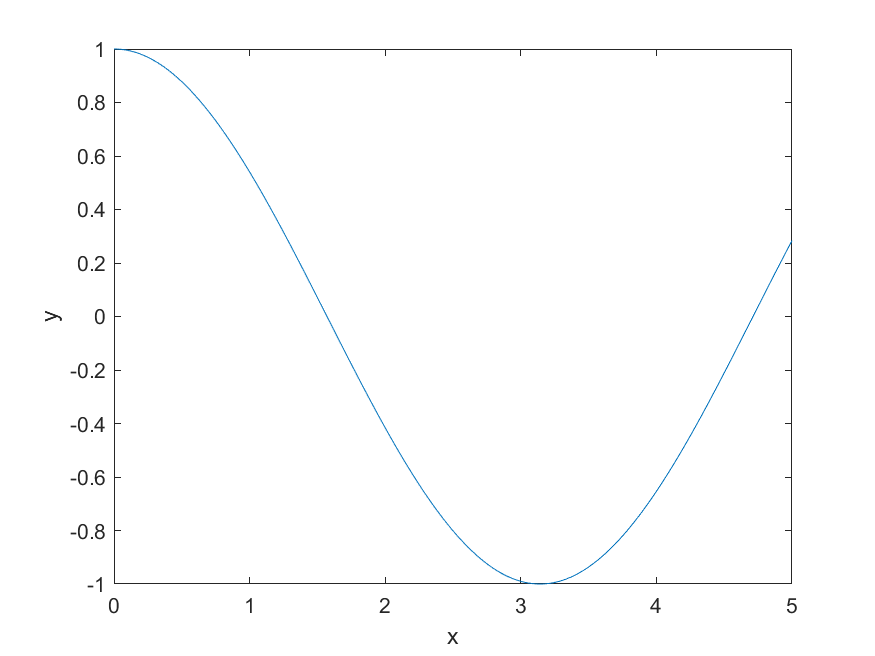
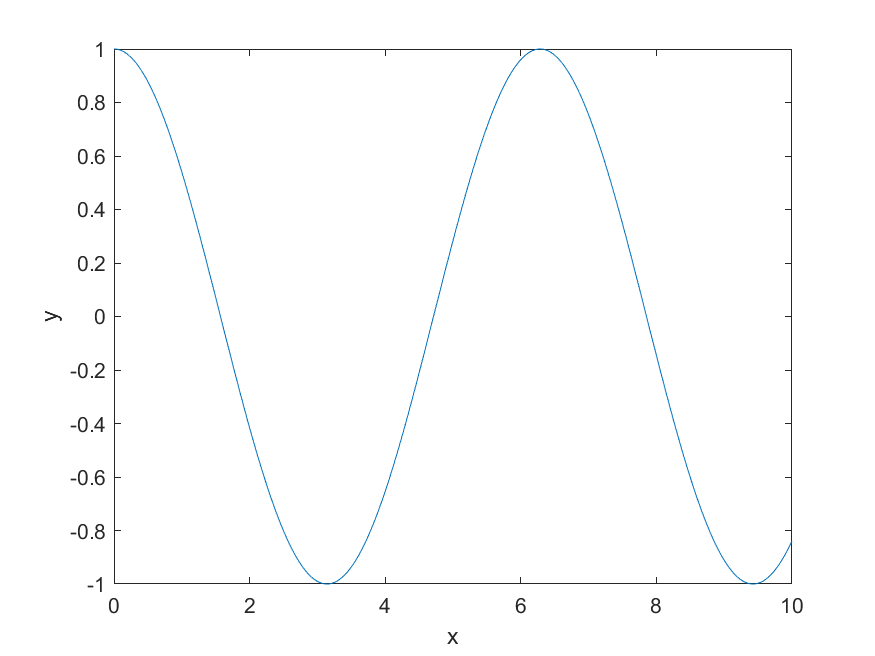
15.05.2024 - Bug Fixes

diff --git a/src/main/java/home/classes/Integration.java b/src/main/java/home/classes/Integration.java
@@ -35,11 +35,6 @@ public class Integration implements Integration_Interface {
 
 	// Șablonul pentru graficul MATLAB cu metoda de integrare evidențiată
 	private static String MATLAB_PLOT_SKELETON_METHOD =
-			"fig = figure('Visible', 'off');\n" +
-					"hold on;\n" +
-					"plot(x, y, 'Color', [0 0.4470 0.7410]);\n" +  // Linie pentru funcție în albastru
-					"xlabel('x');\n" +
-					"ylabel('y');\n" +
 					"%s" +  // Spațiu rezervat pentru comenzile de afișare a zonei
 					"hold off;\n" +
 					"saveas(gcf, './src/main/resources/Integrix/plots/funct_plot_2s.png');\n";
@@ -98,6 +93,13 @@ public class Integration implements Integration_Interface {
 	public void method_plotting(String function, String min, String max, String plot_interval, String interval, int type) throws ExecutionException, InterruptedException {
 		engine.eval("clear;"); // Șterge orice obiecte sau grafice existente în mediul de lucru MATLAB
 		String area_plotting_code = ""; // Inițializează șirul de caractere pentru codul de plasare a ariei sub grafic
+		engine.eval("x = " + min + ":" + plot_interval + ":" + max + ";"); // Definirea punctelor x
+		engine.eval("y = " + function + ";");
+		engine.eval("fig = figure('Visible', 'off');"); // Creează o nouă figură
+		engine.eval("hold on;"); // Păstrează graficul pe aceeași figură
+		engine.eval("plot(x, y, 'Color', [1 0 0]);"); // Plasează graficul funcției
+		engine.eval("xlabel('x');"); // Eticheta axei x
+		engine.eval("ylabel('y');"); // Eticheta axei y
 
 		// Evaluarea expresiilor MATLAB pentru generarea punctelor x și y
 		engine.eval("x = " + min + ":((" + max + "-" + min + ")/" + interval + ")" + ":" + max + ";");
@@ -108,21 +110,23 @@ public class Integration implements Integration_Interface {
 			case 0:  // Metoda Rectangular
 				if (type == 0) {
 					area_plotting_code = "loop = 1;\n" +
-							"% Execută bucla până când loop este mai mic decât lungimea lui x minus 1\n" +
-							"while loop <= length(x)-1\n" +
-							"    % Calculează lățimea\n" +
-							"    width = abs((" + max + " - " + min + ") / " + interval + ");\n" +
-							"    % Calculează înălțimea\n" +
-							"    height = (y(loop) + y(loop + 1)) / 2;\n" +
-							"    % Definirea vârfurilor dreptunghiului\n" +
+							"% Define the width of each rectangle\n" +
+							"width = abs((" + max + " - " + min + ") / " + interval + ");\n" +
+							"% Loop through each interval\n" +
+							"while loop <= length(x) - 1\n" +
+							"    % Calculate the midpoint of the current interval\n" +
+							"    midpoint = (x(loop) + x(loop + 1)) / 2;\n" +
+							"    % Calculate the height of the rectangle at the midpoint\n" +
+							"    height = " + function.replace("x", "midpoint") + ";\n" +
+							"    % Define the vertices of the rectangle\n" +
 							"    x_coords = [x(loop), x(loop) + width, x(loop) + width, x(loop)];\n" +
 							"    y_coords = [0, 0, height, height];\n" +
-							"    % Creează un poligon reprezentând dreptunghiul\n" +
+							"    % Create a polygon representing the rectangle\n" +
 							"    rect_poly = polyshape(x_coords, y_coords);\n" +
-							"    % Plasează dreptunghiul\n" +
+							"    % Plot the rectangle\n" +
 							"    plot(rect_poly, 'FaceColor', [0 0.4470 0.7410]);\n" +
 							"    hold on;\n" +
-							"    % Incrementarea contorului buclei\n" +
+							"    % Increment the loop counter\n" +
 							"    loop = loop + 1;\n" +
 							"end;\n" +
 							"hold off;\n";
